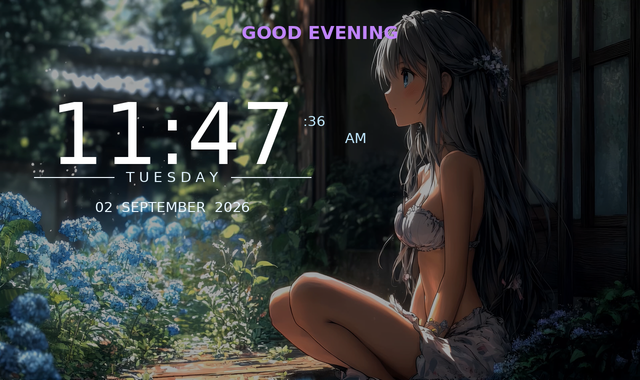
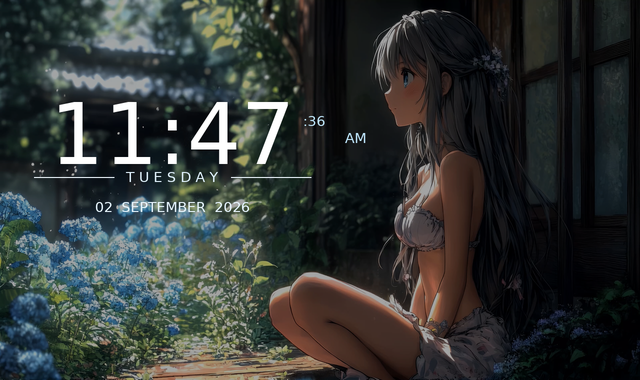
fix: Removed yellow greeting badge from live wallpaper themes

Changed region(s): [[0.375, 0.0579, 0.625, 0.1158]]

diff --git a/generate_theme_screenshots.py b/generate_theme_screenshots.py
@@ -477,10 +477,11 @@ def render_theme_screenshot(theme_key, theme_info, output_dir="assets"):
         font_cinzel = ImageFont.load_default()
 
     # 2. Greeting Badge Text
-    greeting_text = theme_info["greeting"]
-    gb = draw.textbbox((0, 0), greeting_text, font=font_cinzel)
-    gw = gb[2] - gb[0]
-    draw.text(((w - gw) // 2, int(22 * scale)), greeting_text, font=font_cinzel, fill=theme_info["accent_color"])
+    if theme_key not in ["glass_misty_pavilion", "glass_anime_hydrangea"]:
+        greeting_text = theme_info["greeting"]
+        gb = draw.textbbox((0, 0), greeting_text, font=font_cinzel)
+        gw = gb[2] - gb[0]
+        draw.text(((w - gw) // 2, int(22 * scale)), greeting_text, font=font_cinzel, fill=theme_info["accent_color"])
 
     if theme_key in ["glass_misty_pavilion", "glass_anime_hydrangea"]:
         # Draw aesthetic glass clock layout matching user's reference images

diff --git a/flipclock.py b/flipclock.py
@@ -3079,7 +3079,7 @@ class FlipClockManager:
             'clock_size': '1.0',
             'animation_speed': 500,
             'monitors': 'all',
-            'theme': 'luxury_black_gold',
+            'theme': 'glass_misty_pavilion',
             'card_shape': 'squircle',
             'show_seconds': 'true',
             'show_date': 'true',
